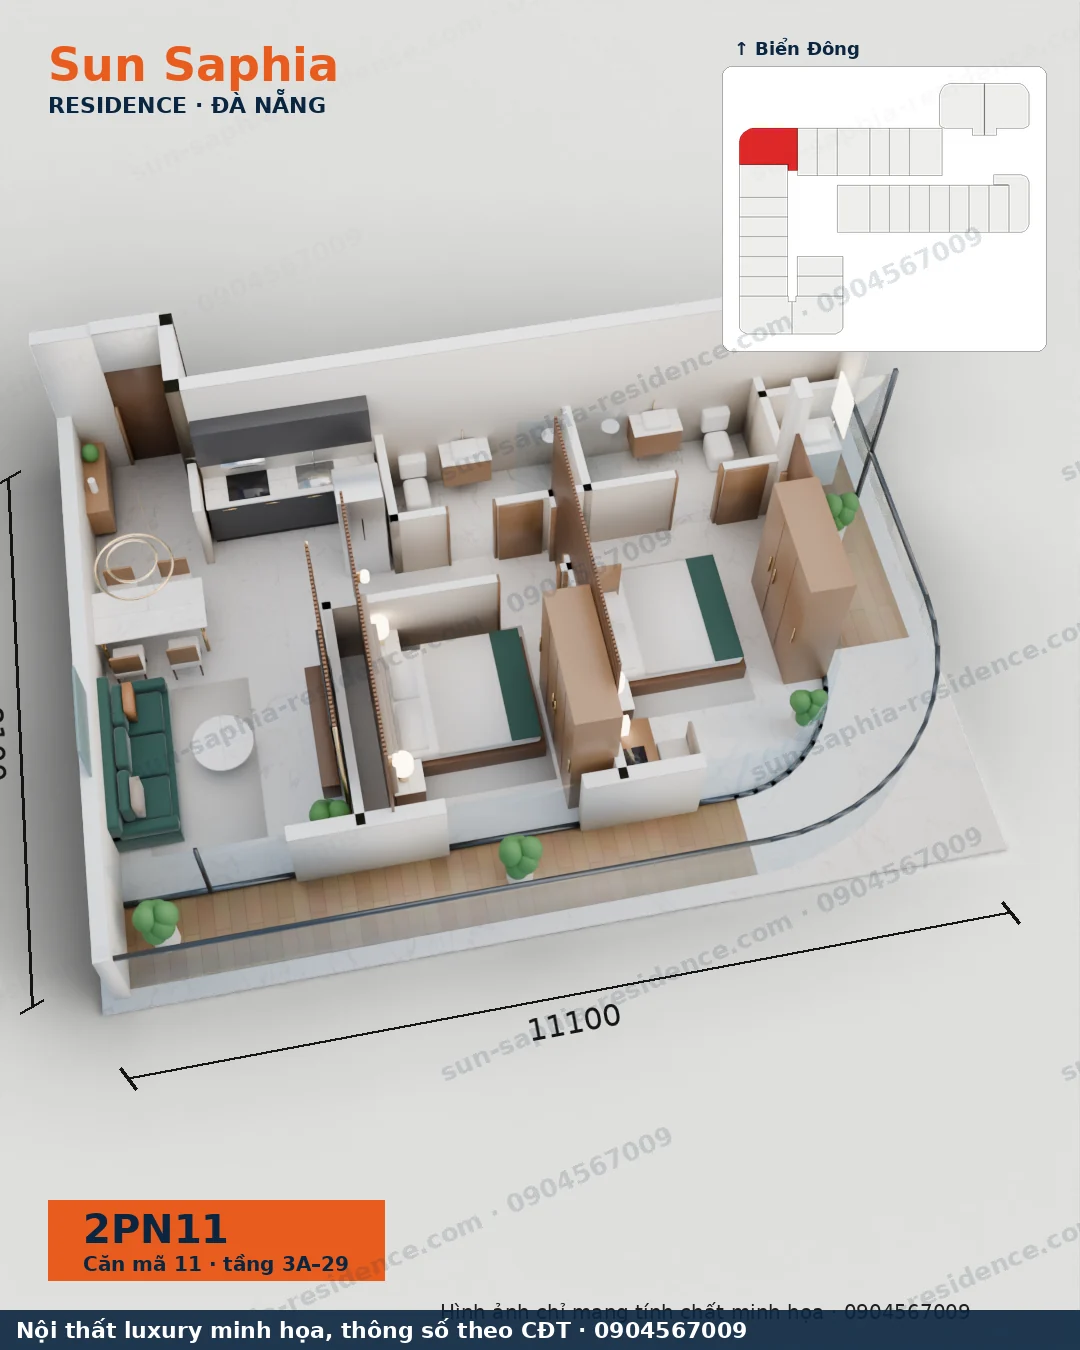
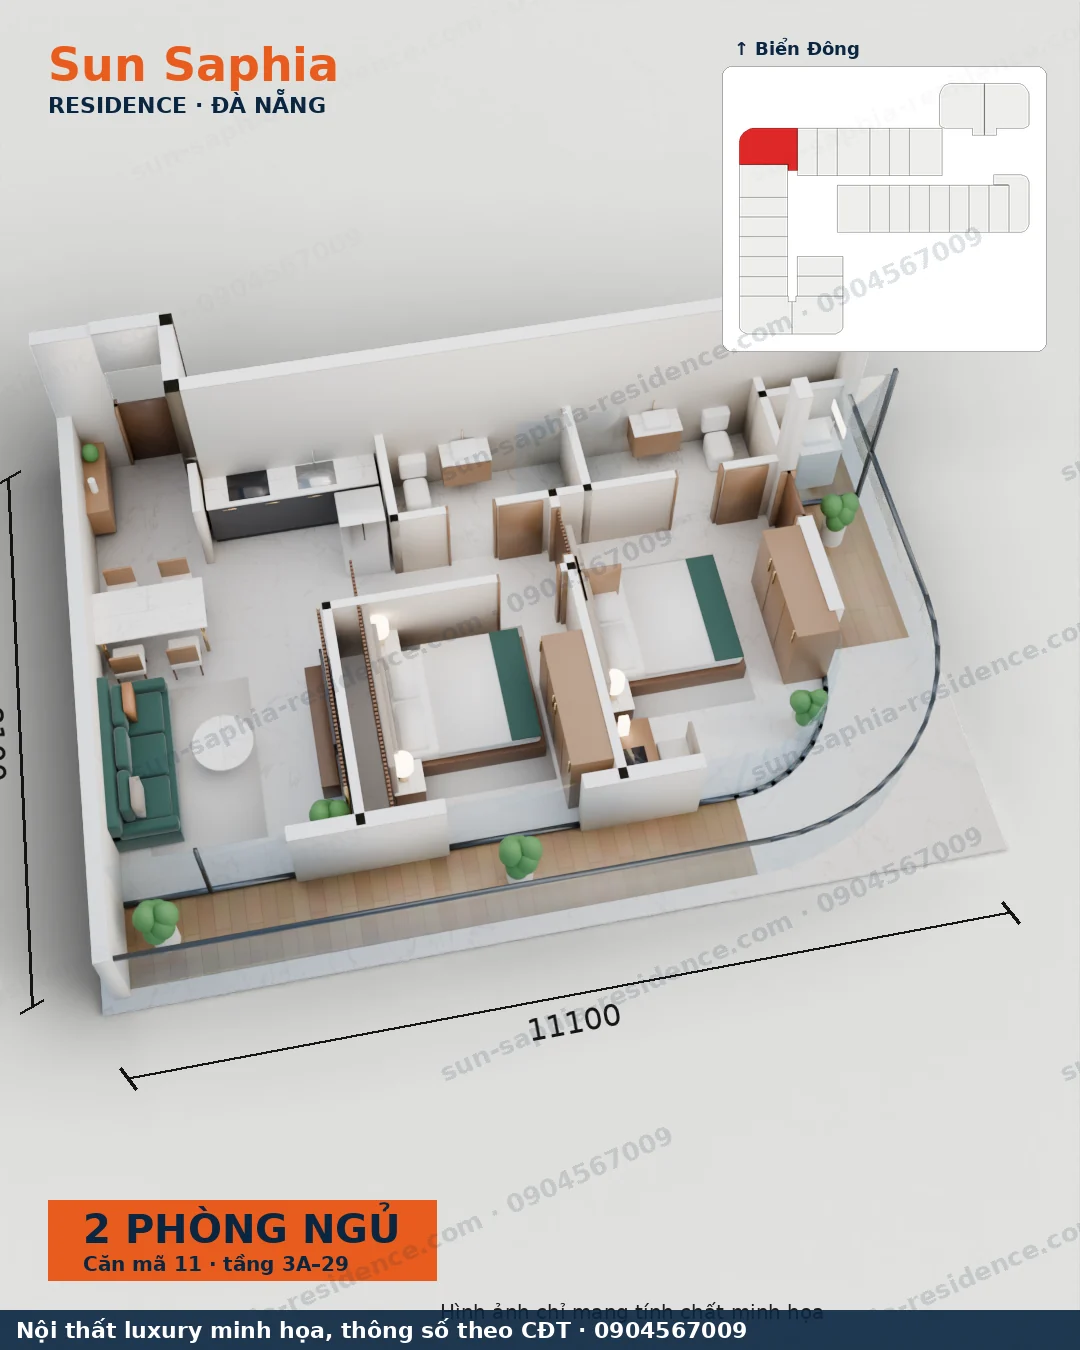
Nội thất: mặt bằng 3D kiểu mới căn 11 Co-Authored-By: Claude Opus 5.5 <noreply@anthropic.com> Claude-Session: https://claude.ai/code/session_01NC2CYpoTfJafqPT1uZGzKB

diff --git a/projects/sun-saphia/noi-that/compose_top.py b/projects/sun-saphia/noi-that/compose_top.py
@@ -8,7 +8,7 @@ F = '/usr/share/fonts/truetype/dejavu/DejaVuSans-Bold.ttf'; FR = '/usr/share/fon
 NAVY, ORANGE, BG = (10, 37, 64), (232, 92, 30), (226, 226, 224)
 T30 = {'07': '1PN+1', '08': '1PN', '09': '1PN+1', '10': '1PN', '11': '1PN+1', '06': '2PN', '05': '1PN', '03A': '1PN', '03': '1PN+1', '02': '1PN+1', '01': '1PN',
        '16': '1PN+1', '15': '1PN', '12B': '1PN', '12A': '1PN', '12': '1PN'}
-LBL = {'STU': 'STUDIO', 'STUL': 'STUDIO', '1PN': '1 PHÒNG NGỦ', '1PN+1': '1 PHÒNG NGỦ +', '2PN': '2 PHÒNG NGỦ', '2PN1': '2 PHÒNG NGỦ'}
+LBL = {'STU': 'STUDIO', 'STUL': 'STUDIO', '1PN': '1 PHÒNG NGỦ', '1PN+1': '1 PHÒNG NGỦ +', '2PN': '2 PHÒNG NGỦ', '2PN1': '2 PHÒNG NGỦ', '2PN11': '2 PHÒNG NGỦ', '2PNT': '2 PHÒNG NGỦ', '2PN1L': '1 PHÒNG NGỦ +', '1PN+1L': '1 PHÒNG NGỦ +'}
 k, uid = name.split('-', 1); fl = '30' if k == '30' else None
 parts_all = C['u30'] if k == '30' else C['u']
 lay = max(parts_all[uid], key=lambda p: C['spec'][p[0]]['W'] * C['spec'][p[0]]['D'])[0]
